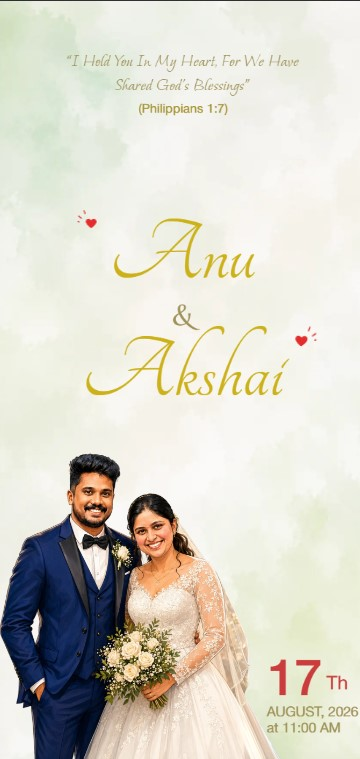
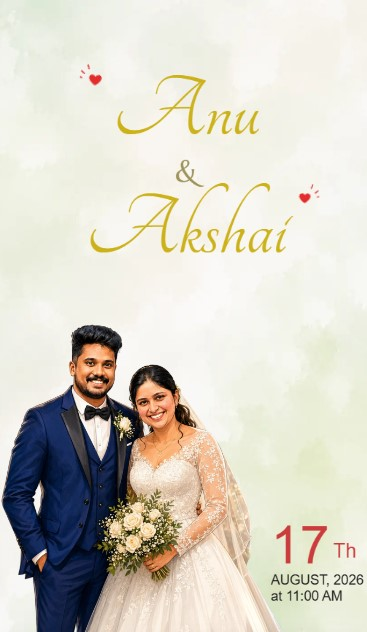
changes

diff --git a/index.html b/index.html
@@ -4,20 +4,20 @@
 <head>
     <meta charset="UTF-8">
     <meta name="viewport" content="width=device-width, initial-scale=1.0">
-    <title>Wedding Invitation | Anu & Akshai</title>
+    <title>Engagement Invitation | Anu & Akshai</title>
     <link rel="stylesheet" href="css/wedding.css">
 
     <!-- Open Graph -->
-    <meta property="og:title" content="Wedding Invitation | Anu & Akshai">
-    <meta property="og:description" content="You are invited to celebrate the wedding of Anu & Akshai">
+    <meta property="og:title" content="Engagement Invitation | Anu & Akshai">
+    <meta property="og:description" content="You are invited to celebrate the engagement of Anu & Akshai">
     <meta property="og:image" content="/assets/wed-invitation.jpg">
     <meta property="og:url" content="https://anu-akshai-wedding-invitation.vercel.app/">
     <meta property="og:type" content="website">
 
     <!-- Twitter (also used by some platforms) -->
     <meta name="twitter:card" content="summary_large_image">
-    <meta name="twitter:title" content="Wedding Invitation | Anu & Akshai">
-    <meta name="twitter:description" content="You are invited to celebrate the wedding of Anu & Akshai">
+    <meta name="twitter:title" content="Engagement Invitation | Anu & Akshai">
+    <meta name="twitter:description" content="You are invited to celebrate the engagement of Anu & Akshai">
     <meta name="twitter:image" content="/assets/wed-invitation.jpg">
 </head>
 
